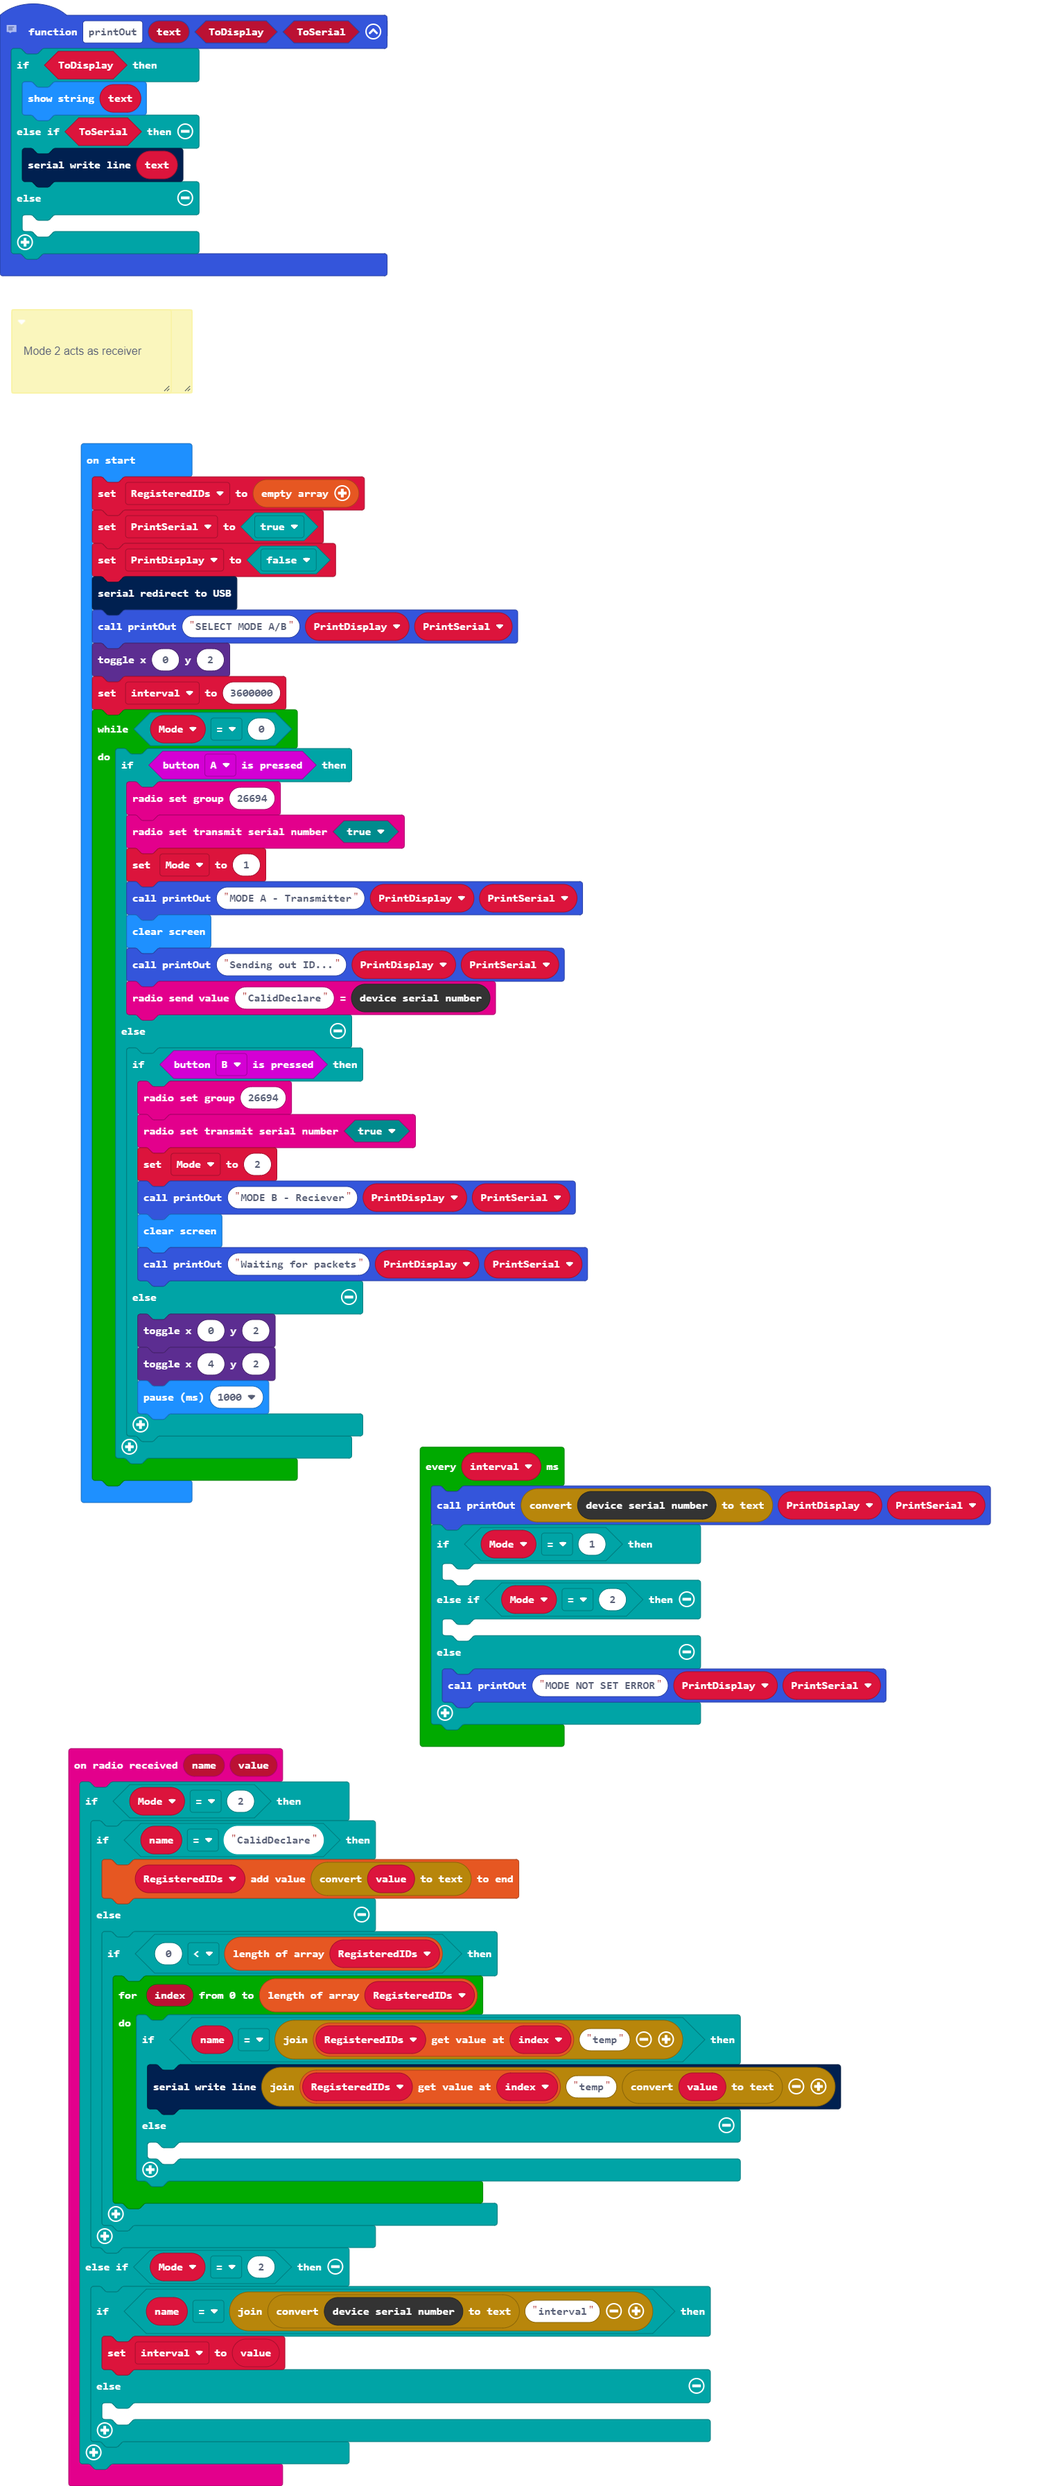
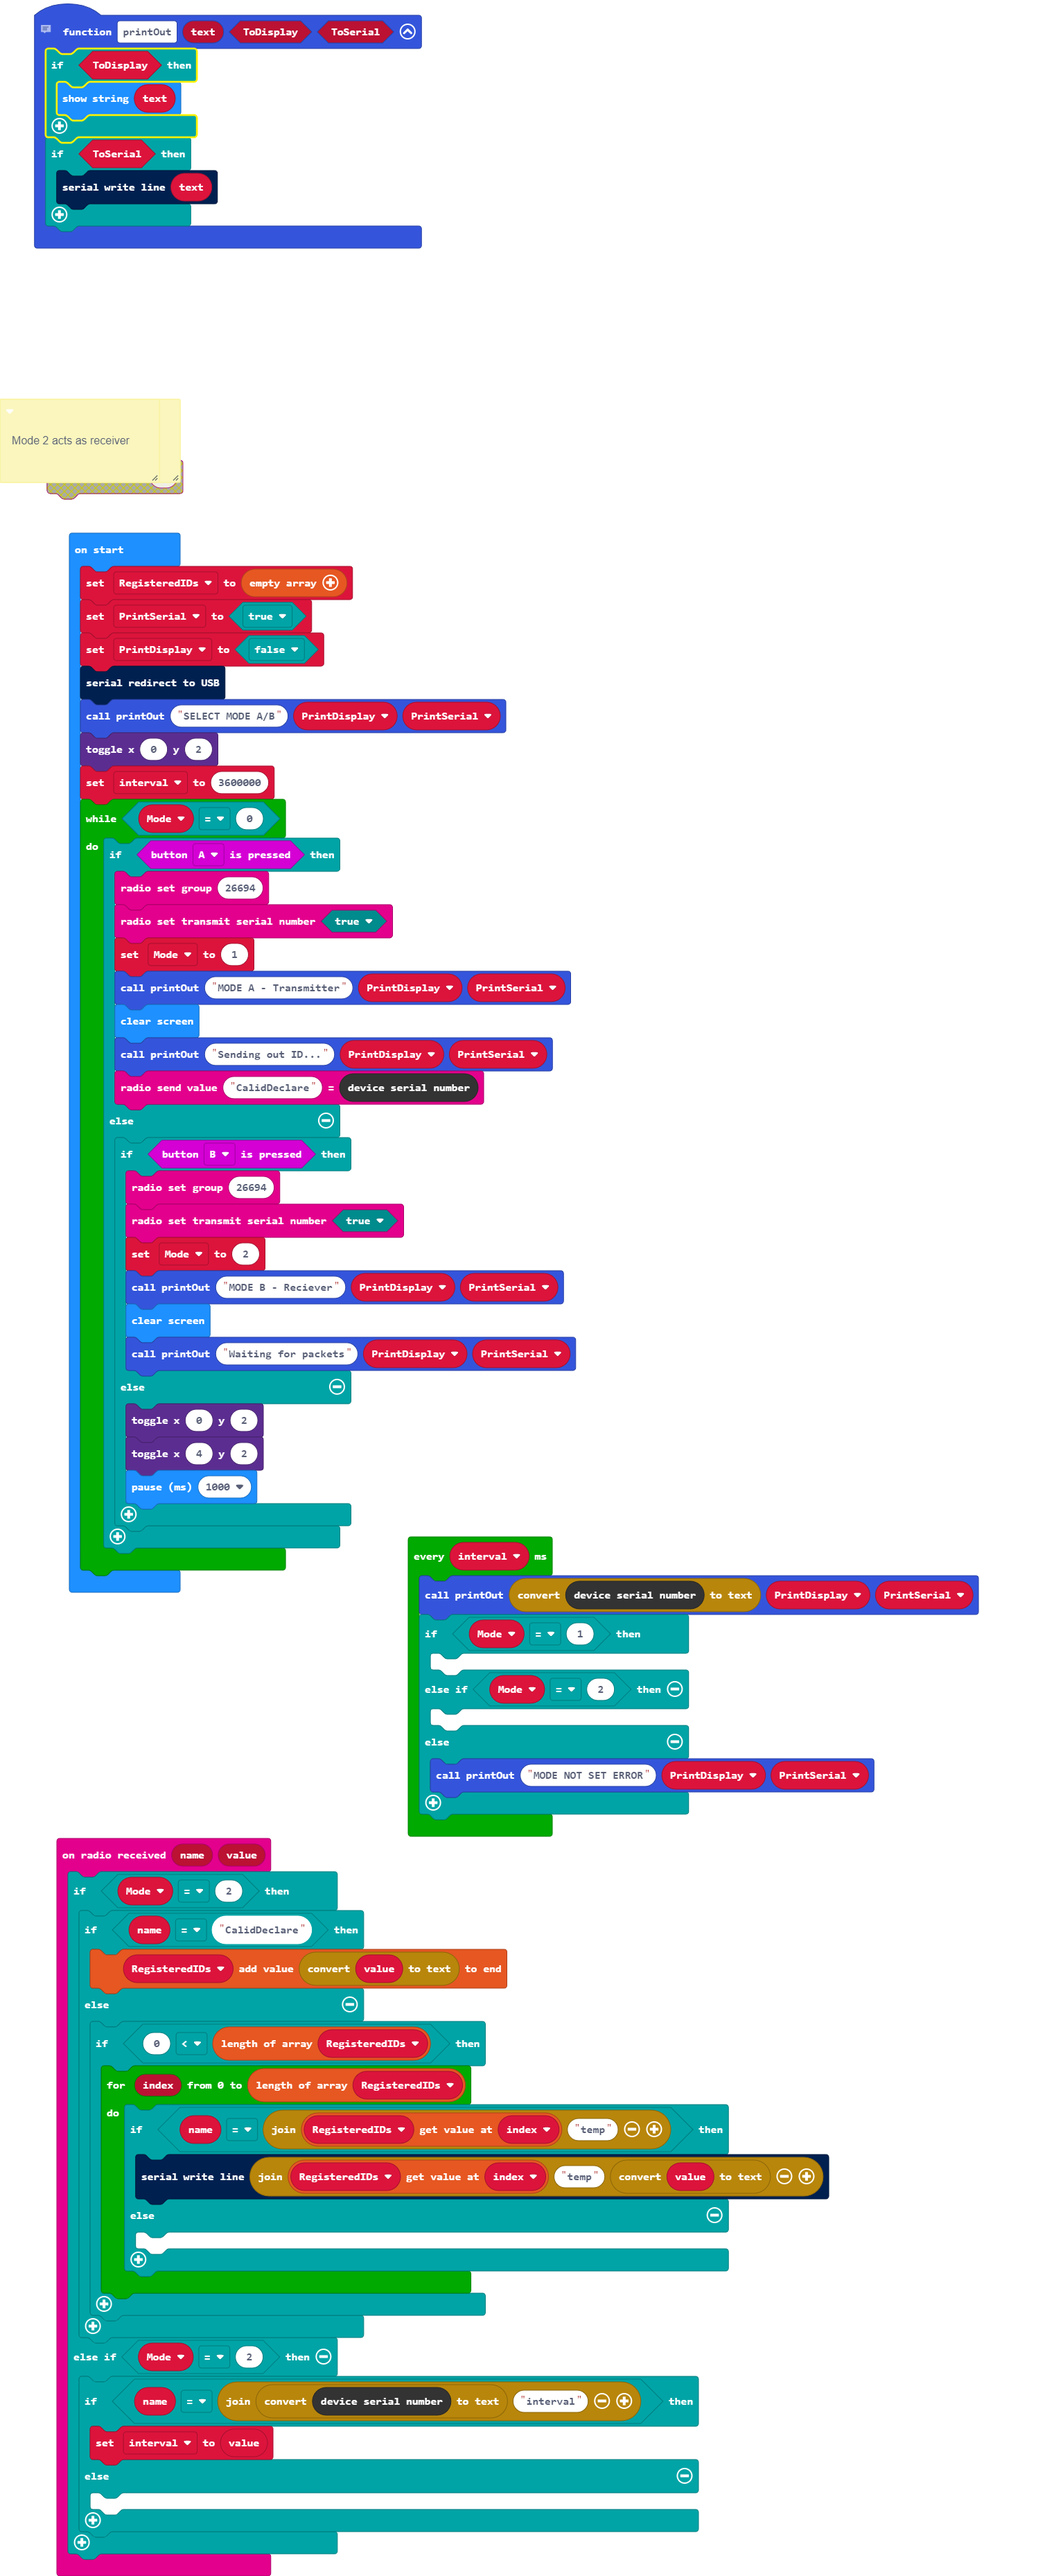
fixed printOut

Changed region(s): [[0.0, 0.0, 0.561, 0.6245], [0.0312, 0.6869, 0.8103, 1.0], [0.374, 0.562, 0.935, 0.7181]]

diff --git a/main.ts b/main.ts
@@ -11,10 +11,9 @@ enum RadioMessage {
 function printOut (text: string, ToDisplay: boolean, ToSerial: boolean) {
     if (ToDisplay) {
         basic.showString(text)
-    } else if (ToSerial) {
+    }
+    if (ToSerial) {
         serial.writeLine(text)
-    } else {
-    	
     }
 }
 radio.onReceivedValue(function (name, value) {
